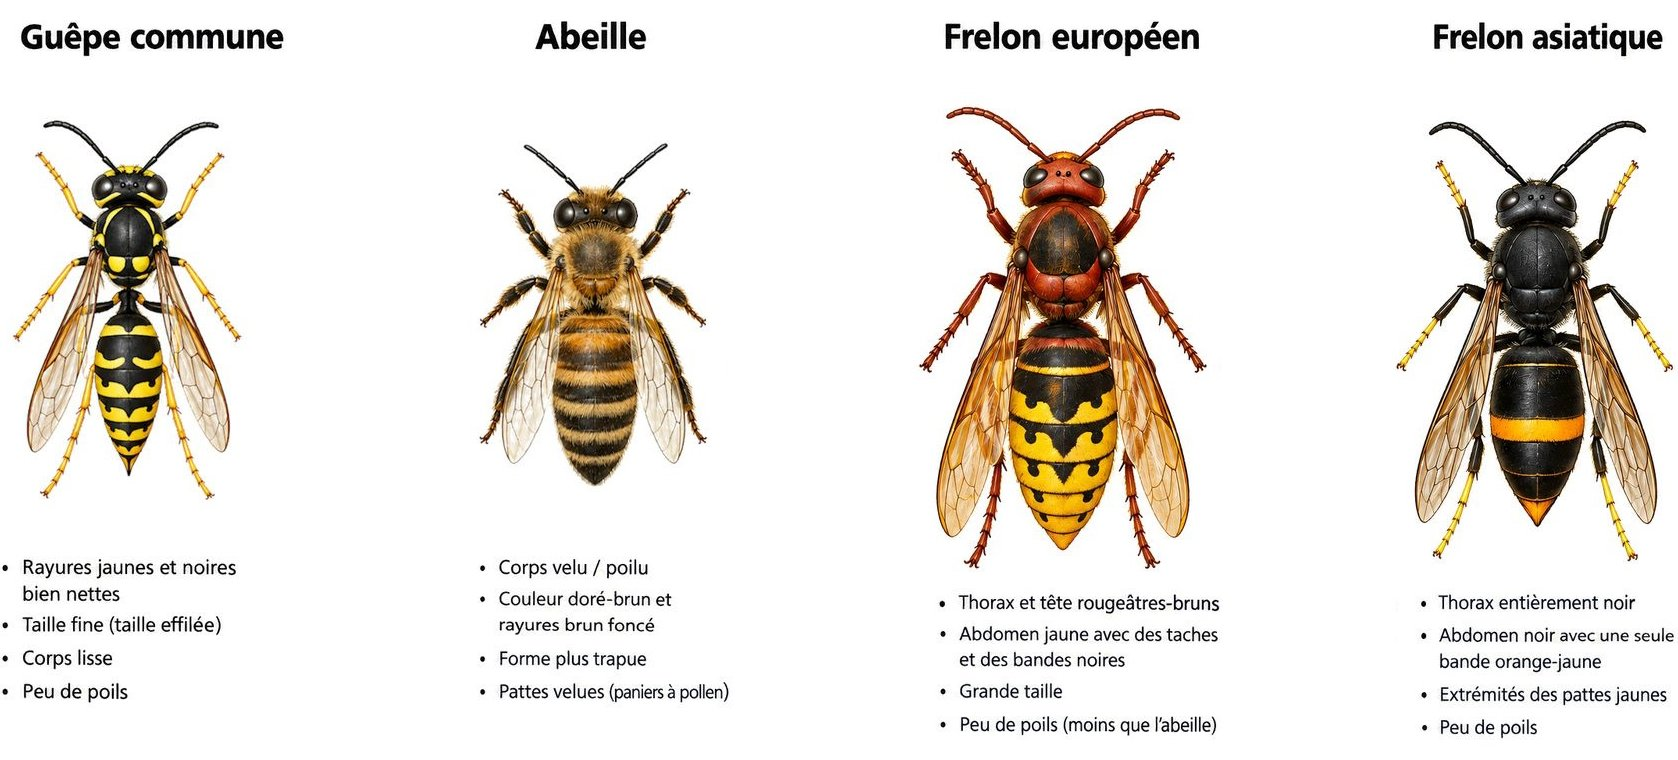
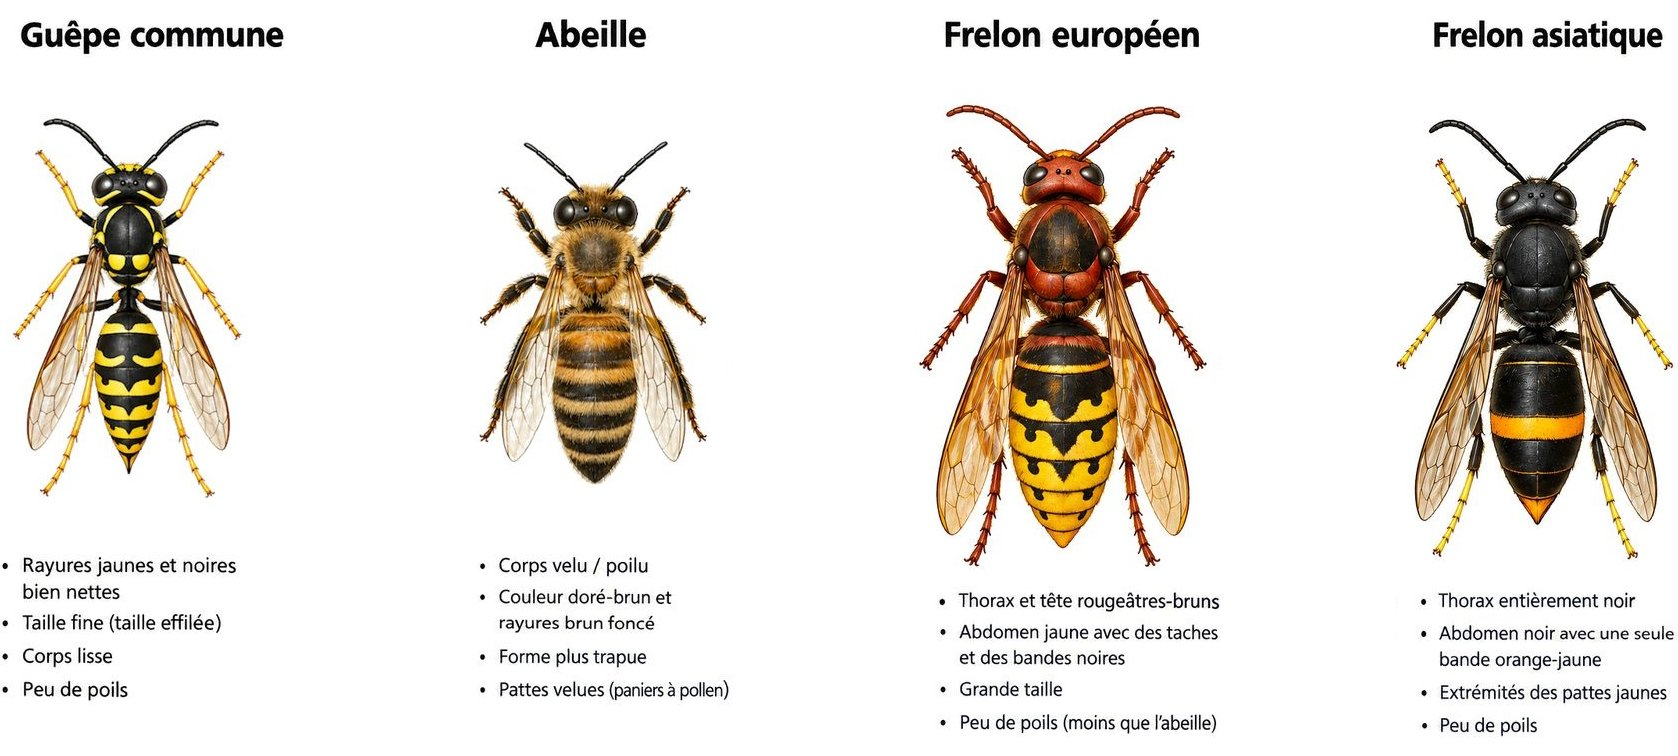
Add files via upload

diff --git a/index.html b/index.html
@@ -1707,7 +1707,7 @@ function imgFallback(img) {
         <p>L'abeille a un corps dodu et poilu, de couleur brun doré, et meurt après avoir piqué une seule fois. La guêpe n'a presque pas de poils, avec des rayures jaune et noir bien marquées et une taille très fine. Le frelon européen ressemble à une grosse guêpe rousse. Le frelon asiatique est plus sombre, avec un thorax brun noir, une tête orange et l'extrémité des pattes jaune.</p>
         <picture>
           <source media="(max-width: 768px)" srcset="faq-especes-mobile.jpg">
-          <img src="faq-especes.jpg" alt="Comparaison visuelle entre une guêpe commune, une abeille, un frelon européen et un frelon asiatique" class="faq-img" width="1678" height="760" loading="lazy" decoding="async">
+          <img src="faq-especes.jpg" alt="Comparaison visuelle entre une guêpe commune, une abeille, un frelon européen et un frelon asiatique" class="faq-img" width="1678" height="756" loading="lazy" decoding="async">
         </picture>
       </details>
       <details class="faq-item">
